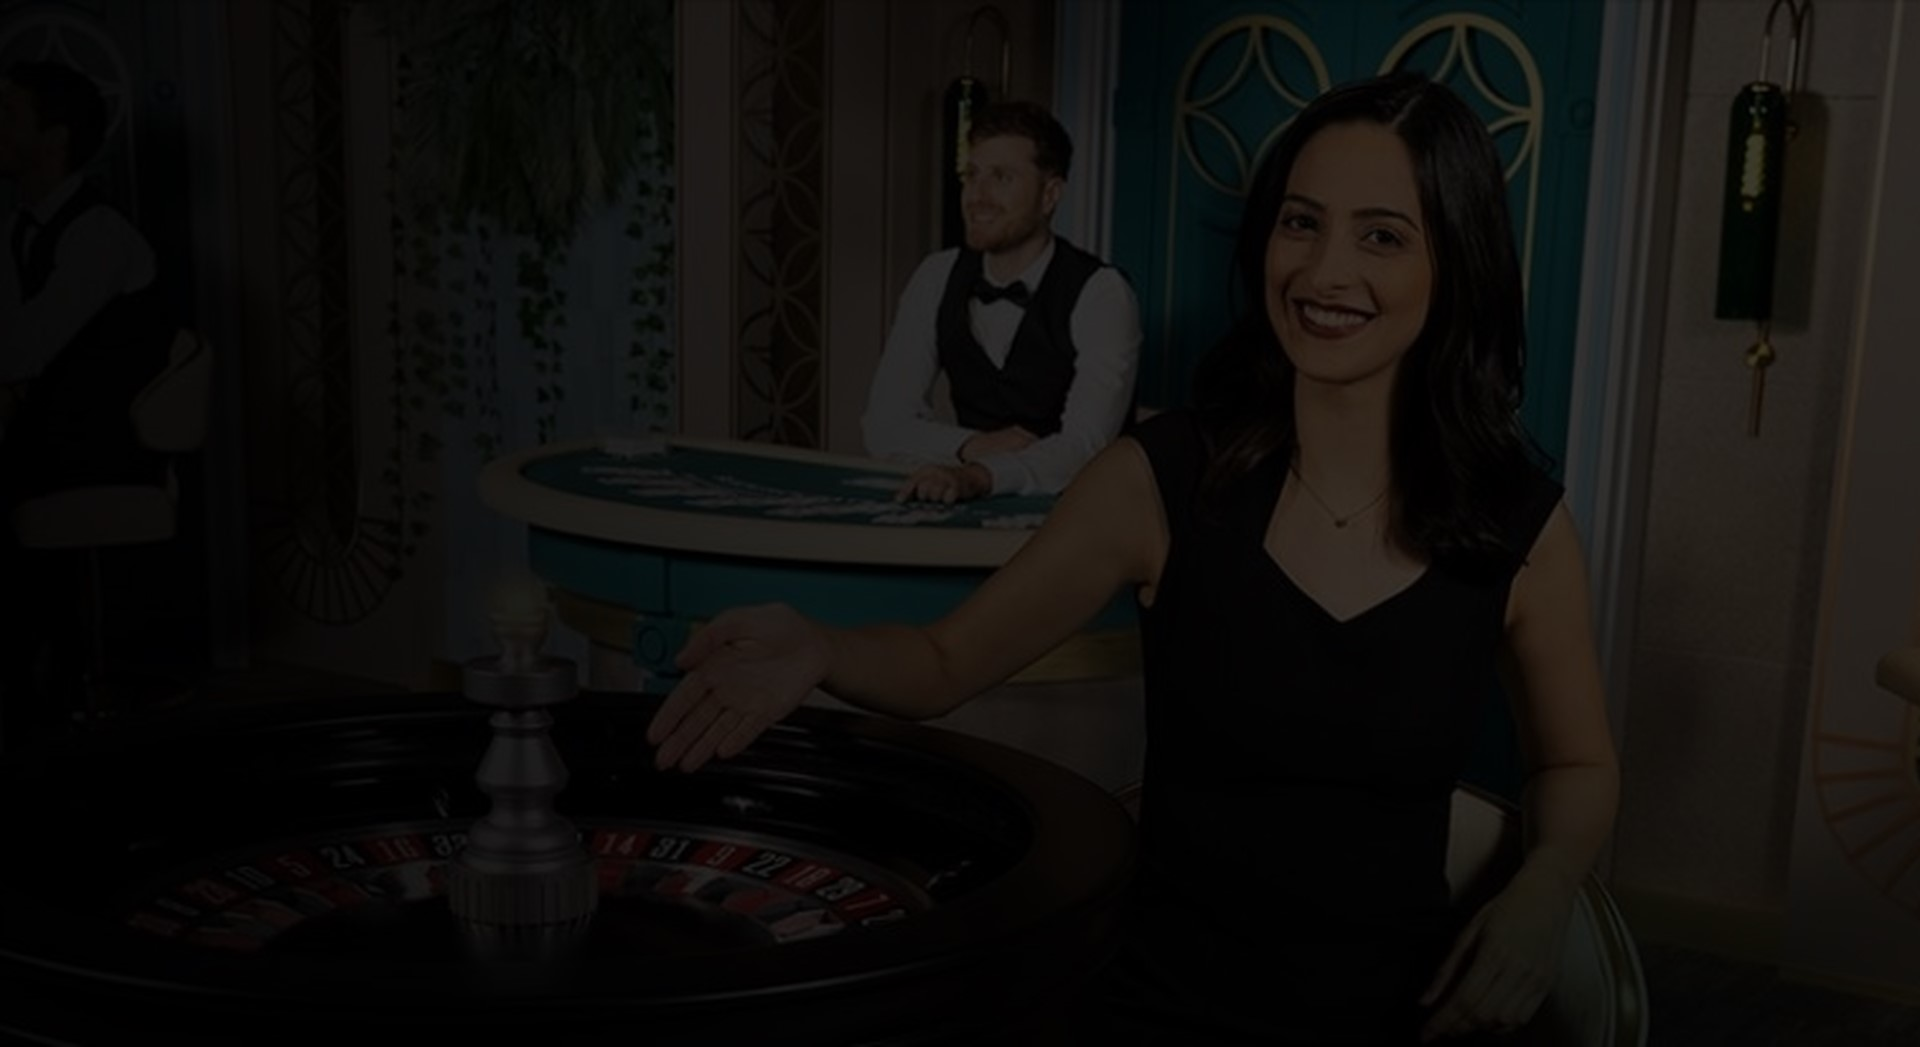
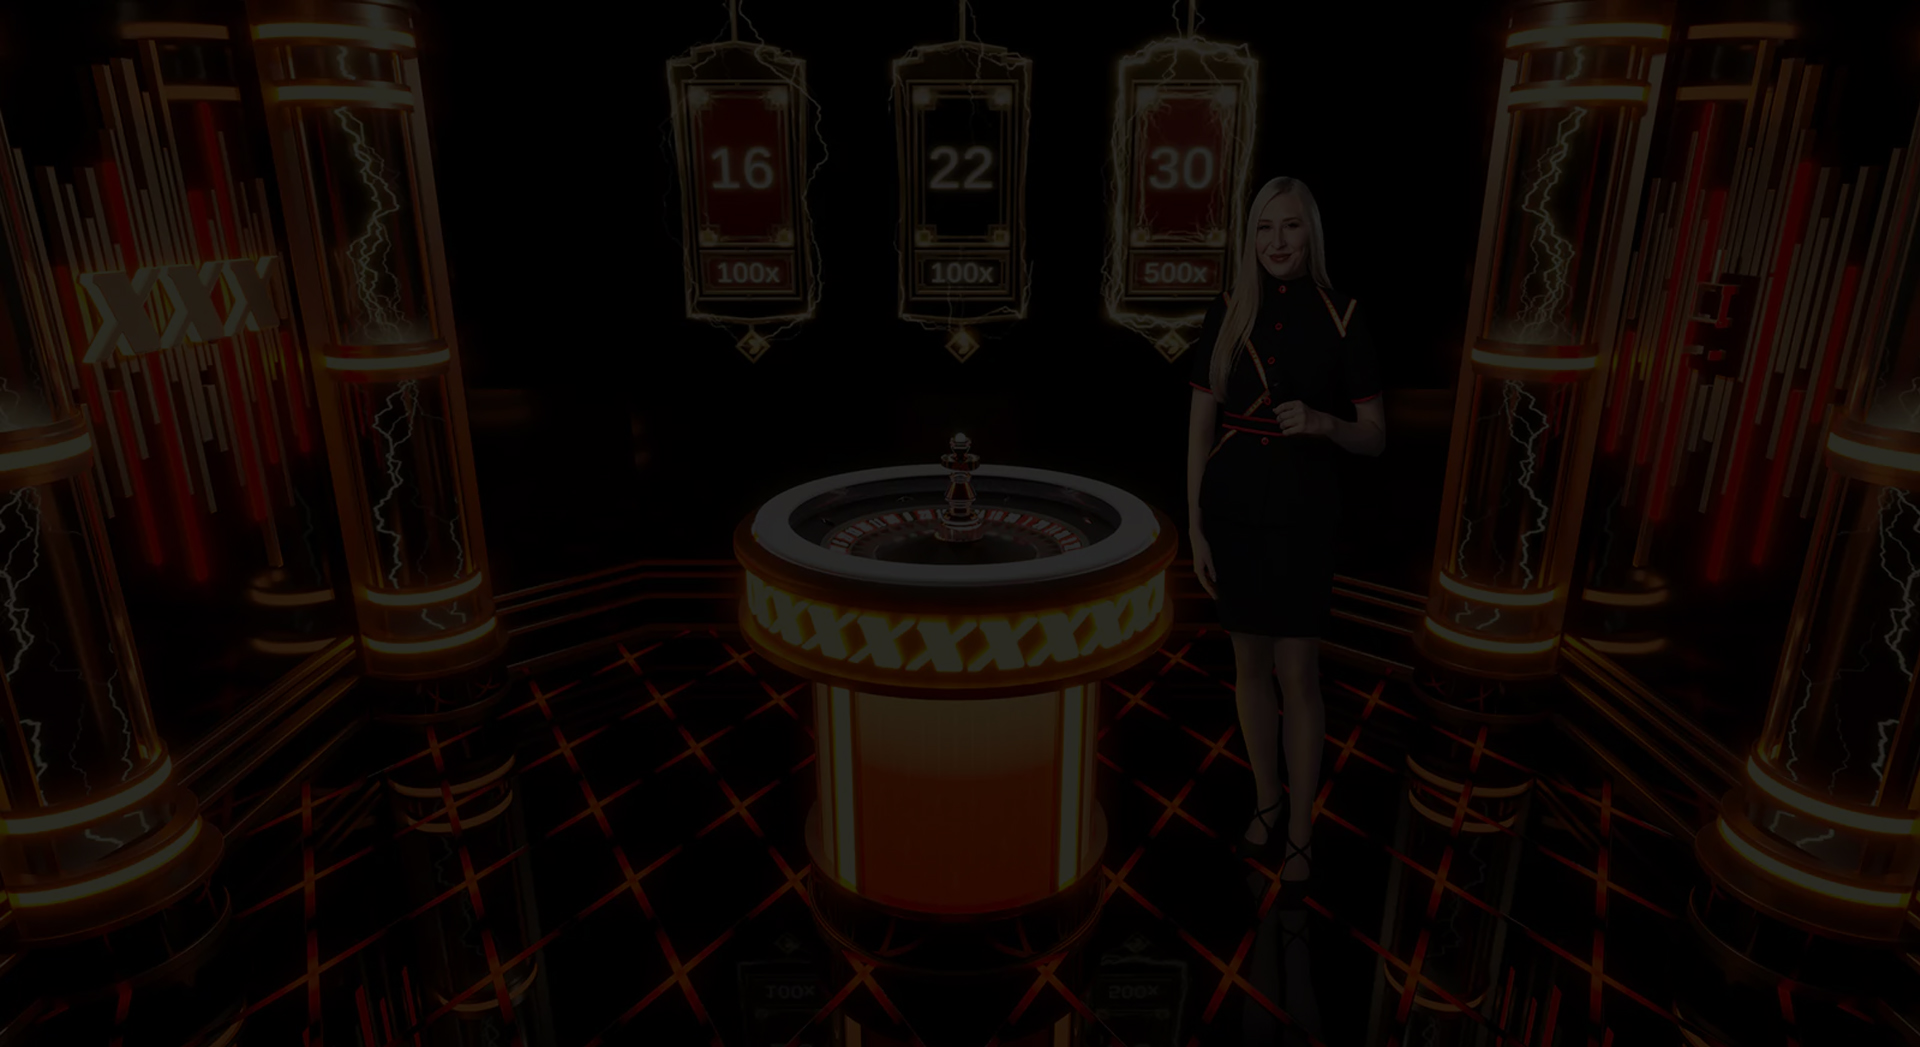
fix(app): sincronizar roletas e atualizar imagens internas

diff --git a/public/games/roleta/index.html b/public/games/roleta/index.html
@@ -5,10 +5,10 @@
   <meta name="viewport" content="width=device-width, initial-scale=1.0">
   <title>VemNaBet - XXXtreme Lightning Roulette</title>
   <link rel="icon" href="/favicon.png" type="image/png">
-  <script src="/games/aovivo/fortune-feed.js?v=20260430a"></script>
+  <script src="/games/aovivo/fortune-feed.js?v=20260506b"></script>
   <script src="https://cdnjs.cloudflare.com/ajax/libs/jquery/3.7.1/jquery.min.js"></script>
-  <link rel="stylesheet" href="/games/aovivo/style.css?v=20260430a">
-<style id="__VNB_FORTUNE_BG__">body::before{background-image:linear-gradient(rgba(0,0,0,.52),rgba(0,0,0,.72)),url('/games/roleta/img/fortune-roulette-live-bg.webp')!important}</style>
+  <link rel="stylesheet" href="/games/aovivo/style.css?v=20260506b">
+<style id="__VNB_FORTUNE_BG__">body::before{background-image:linear-gradient(rgba(0,0,0,.52),rgba(0,0,0,.72)),url('/games/roleta/img/bg.jpg?v=20260506b')!important}.roleta-logo{width:280px;max-width:70vw;height:auto;border-radius:14px}</style>
 <style id="__VNB_SCROLL_FIX__">html,body{overflow-x:hidden!important;overflow-y:auto!important;position:static!important;height:auto!important;min-height:100vh}body{overflow-y:auto!important}</style>
 <style id="__VNB_HIDE_SCROLLBAR__">html,body{scrollbar-width:none!important;-ms-overflow-style:none!important}html::-webkit-scrollbar,body::-webkit-scrollbar,*::-webkit-scrollbar{width:0!important;height:0!important;display:none!important;background:transparent!important}body{-webkit-overflow-scrolling:touch}iframe{scrollbar-width:none}</style><style id="__VNB_IFRAME_FIX__">#iframe{margin:1em auto 3em auto!important;display:block;border:0;border-radius:15px;background:#000}body>div:last-of-type{margin-bottom:2em}</style>  <script src="/js/ref-tracker.js?v=20260420d"></script>
 </head>
@@ -20,7 +20,7 @@
   </div>
 
   <div class="logo-container">
-    <img src="/games/roleta/img/Design.webp?v=20260429a" alt="Logo Fortune Roulette" class="logo" style="max-width:240px;border-radius:14px;">
+    <img src="/games/roleta/img/xxxtreme.webp?v=20260506b" alt="XXXtreme Lightning Roulette" class="logo roleta-logo">
   </div>
 
   <div class="fr-stats" id="frStats">
@@ -92,7 +92,7 @@
   </script>
 
   <footer class="footer">
-    © 2024 - VemNaBet
+    &copy; 2024 - VemNaBet
     <a href="" target="_blank" class="guima-link"><b>VEMNABET</b></a>
   </footer>
 
@@ -199,10 +199,10 @@
       loadingText.removeClass('loading-validada loading-analisando');
 
       if (analisar) {
-        loadingText.text('✅ SINAL ENCONTRADO');
+        loadingText.text('SINAL ENCONTRADO');
         loadingText.addClass('loading-validada');
       } else {
-        loadingText.text('🔎 BUSCANDO SINAIS...');
+        loadingText.text('BUSCANDO SINAIS...');
         loadingText.addClass('loading-analisando');
       }
     }

diff --git a/public/games/aovivo/index.html b/public/games/aovivo/index.html
@@ -7,7 +7,7 @@
   <link rel="icon" href="/favicon.png" type="image/png">
   <script src="/games/aovivo/french-feed.js?v=20260430a"></script>
   <script src="https://cdnjs.cloudflare.com/ajax/libs/jquery/3.7.1/jquery.min.js"></script>
-  <link rel="stylesheet" href="/games/aovivo/style.css?v=20260430a">
+  <link rel="stylesheet" href="/games/aovivo/style.css?v=20260506b">
 <style id="__VNB_SCROLL_FIX__">html,body{overflow-x:hidden!important;overflow-y:auto!important;position:static!important;height:auto!important;min-height:100vh}body{overflow-y:auto!important}</style>
 <style id="__VNB_HIDE_SCROLLBAR__">html,body{scrollbar-width:none!important;-ms-overflow-style:none!important}html::-webkit-scrollbar,body::-webkit-scrollbar,*::-webkit-scrollbar{width:0!important;height:0!important;display:none!important;background:transparent!important}body{-webkit-overflow-scrolling:touch}iframe{scrollbar-width:none}</style><style id="__VNB_IFRAME_FIX__">#iframe{margin:1em auto 3em auto!important;display:block;border:0;border-radius:15px;background:#000}body>div:last-of-type{margin-bottom:2em}</style>  <script src="/js/ref-tracker.js?v=20260420d"></script>
 </head>
@@ -94,7 +94,7 @@
   </script>
 
   <footer class="footer">
-    � 2024 - VemNaBet
+    &copy; 2024 - VemNaBet
     <a href="" target="_blank" class="guima-link"><b>VEMNABET</b></a>
   </footer>
 
@@ -201,10 +201,10 @@
       loadingText.removeClass('loading-validada loading-analisando');
 
       if (analisar) {
-        loadingText.text('? SINAL ENCONTRADO');
+        loadingText.text('SINAL ENCONTRADO');
         loadingText.addClass('loading-validada');
       } else {
-        loadingText.text('?? BUSCANDO SINAIS...');
+        loadingText.text('BUSCANDO SINAIS...');
         loadingText.addClass('loading-analisando');
       }
     }
@@ -371,7 +371,7 @@ body.vnb-frame-fullscreen .vnb-toast,body.vnb-frame-fullscreen .messages-contain
 <script>
 (function(){
   if(window.__vnbToast)return;window.__vnbToast=1;
-  var NOMES=['Jos�','Jo�o','Antonio','Carlos','Paulo','Pedro','Lucas','Luiz','Marcos','Gabriel','Rafael','Daniel','Marcelo','Bruno','Eduardo','Felipe','Rodrigo','Mateus','Andr�','Fernando','F�bio','Leonardo','Gustavo','Guilherme','Leandro','Tiago','Anderson','Ricardo','Jorge','Alexandre','Roberto','Diego','Vitor','S�rgio','Matheus','Thiago','Adriano','Luciano','J�lio','Renato','Alex','Vin�cius','Rog�rio','Samuel','Ronaldo','M�rio','Fl�vio','Douglas','Igor','Davi','Maria','Ana','Juliana','M�rcia','Fernanda','Patr�cia','Aline','Sandra','Camila','Amanda','Bruna','J�ssica','Let�cia','J�lia','Luciana','Vanessa','Mariana','Gabriela','Vit�ria','Larissa','Cl�udia','Beatriz','Rita','Luana','S�nia','Renata','Eliane'];
+  var NOMES=['Jose','Joao','Antonio','Carlos','Paulo','Pedro','Lucas','Luiz','Marcos','Gabriel','Rafael','Daniel','Marcelo','Bruno','Eduardo','Felipe','Rodrigo','Mateus','Andre','Fernando','Fabio','Leonardo','Gustavo','Guilherme','Leandro','Tiago','Anderson','Ricardo','Jorge','Alexandre','Roberto','Diego','Vitor','Sergio','Matheus','Thiago','Adriano','Luciano','Julio','Renato','Alex','Vinicius','Rogerio','Samuel','Ronaldo','Mario','Flavio','Douglas','Igor','Davi','Maria','Ana','Juliana','Marcia','Fernanda','Patricia','Aline','Sandra','Camila','Amanda','Bruna','Jessica','Leticia','Julia','Luciana','Vanessa','Mariana','Gabriela','Vitoria','Larissa','Claudia','Beatriz','Rita','Luana','Sonia','Renata','Eliane'];
   var SOBRE=['A.','B.','C.','D.','F.','G.','L.','M.','N.','P.','R.','S.','V.'];
   var PRODUTO='CASSINO AO VIVO';
   // ===== Stats accumulator (driven by toasts) =====

diff --git a/public/games/aovivo/style.css b/public/games/aovivo/style.css
@@ -13,7 +13,7 @@ body::before {
     left: 0; /* Posiciona Ã  esquerda */
     right: 0; /* Posiciona Ã  direita */
     bottom: 0; /* Posiciona na parte inferior */
-    background-image: linear-gradient(rgba(0, 0, 0, 0.52), rgba(0, 0, 0, 0.72)), url('./img/french-roulette-live-bg.png'); /* Define a imagem de fundo */
+    background-image: linear-gradient(rgba(0, 0, 0, 0.52), rgba(0, 0, 0, 0.72)), url('./img/aovivo_esc.jpg'); /* Define a imagem de fundo */
     background-size: cover; /* Cobre toda a Ã¡rea disponÃvel */
     background-position: center top; /* Centraliza a imagem */
     z-index: -1; /* Coloca a imagem de fundo atrÃ¡s de todos os outros elementos */